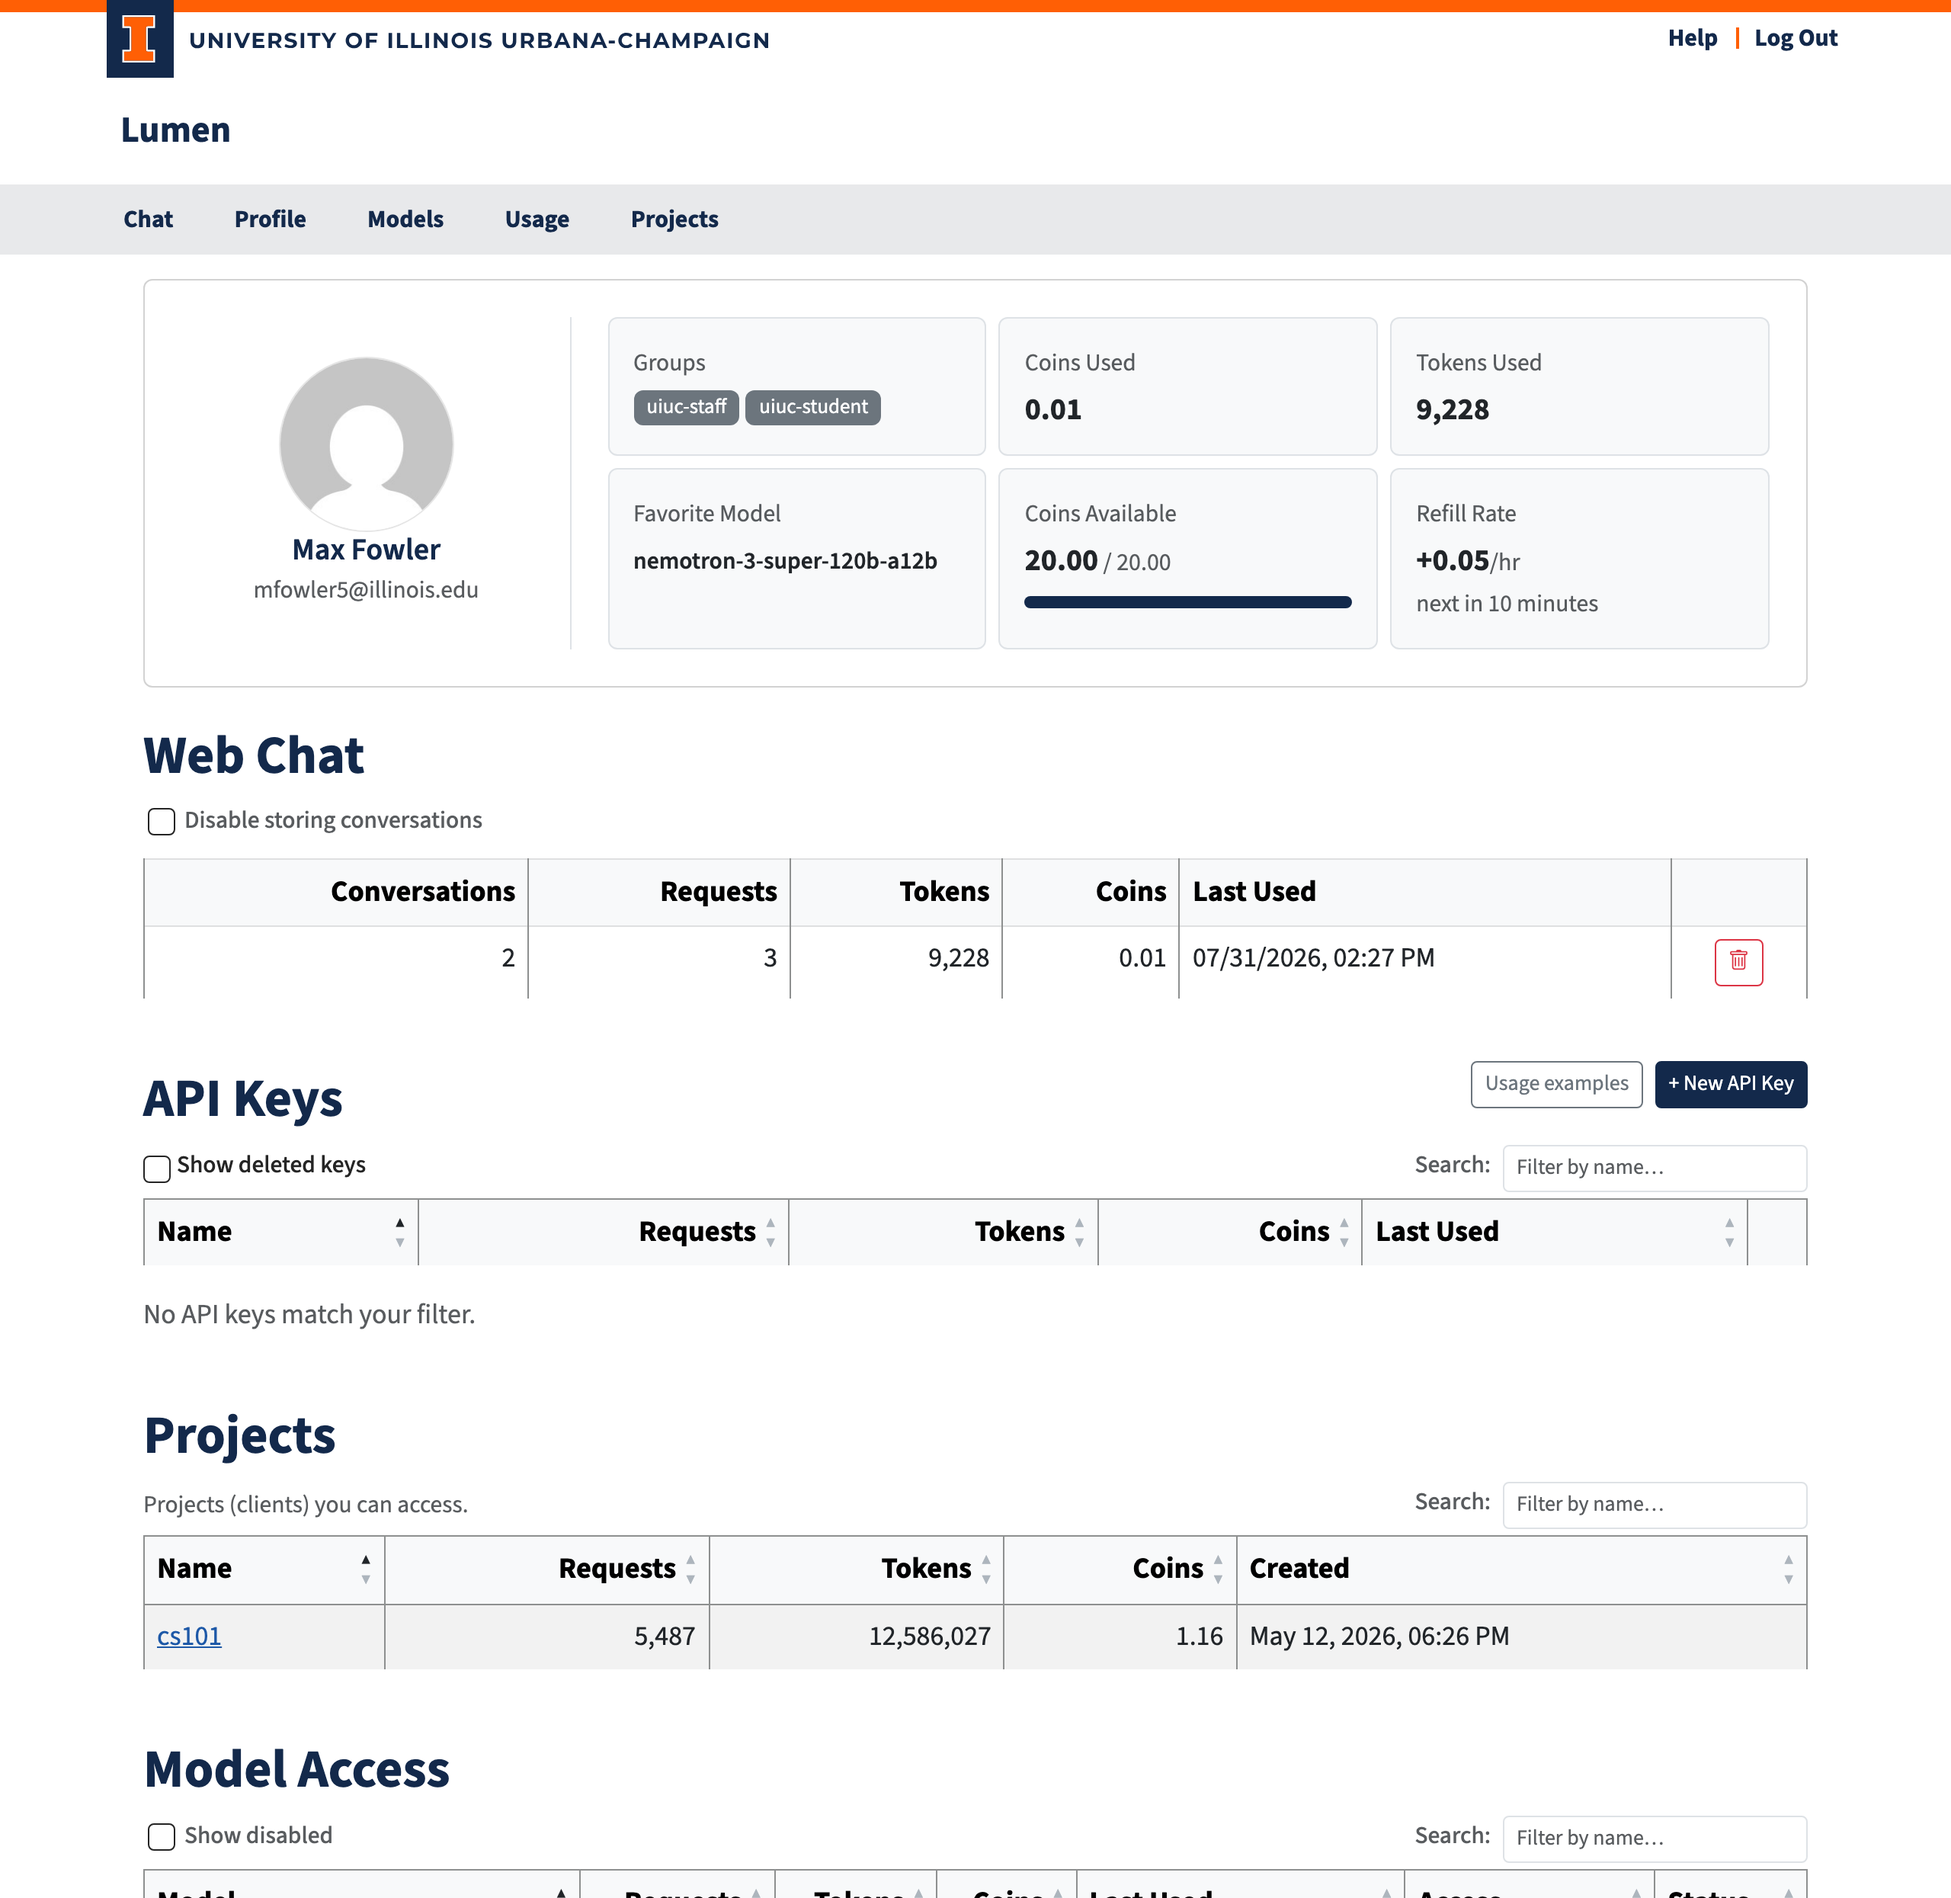
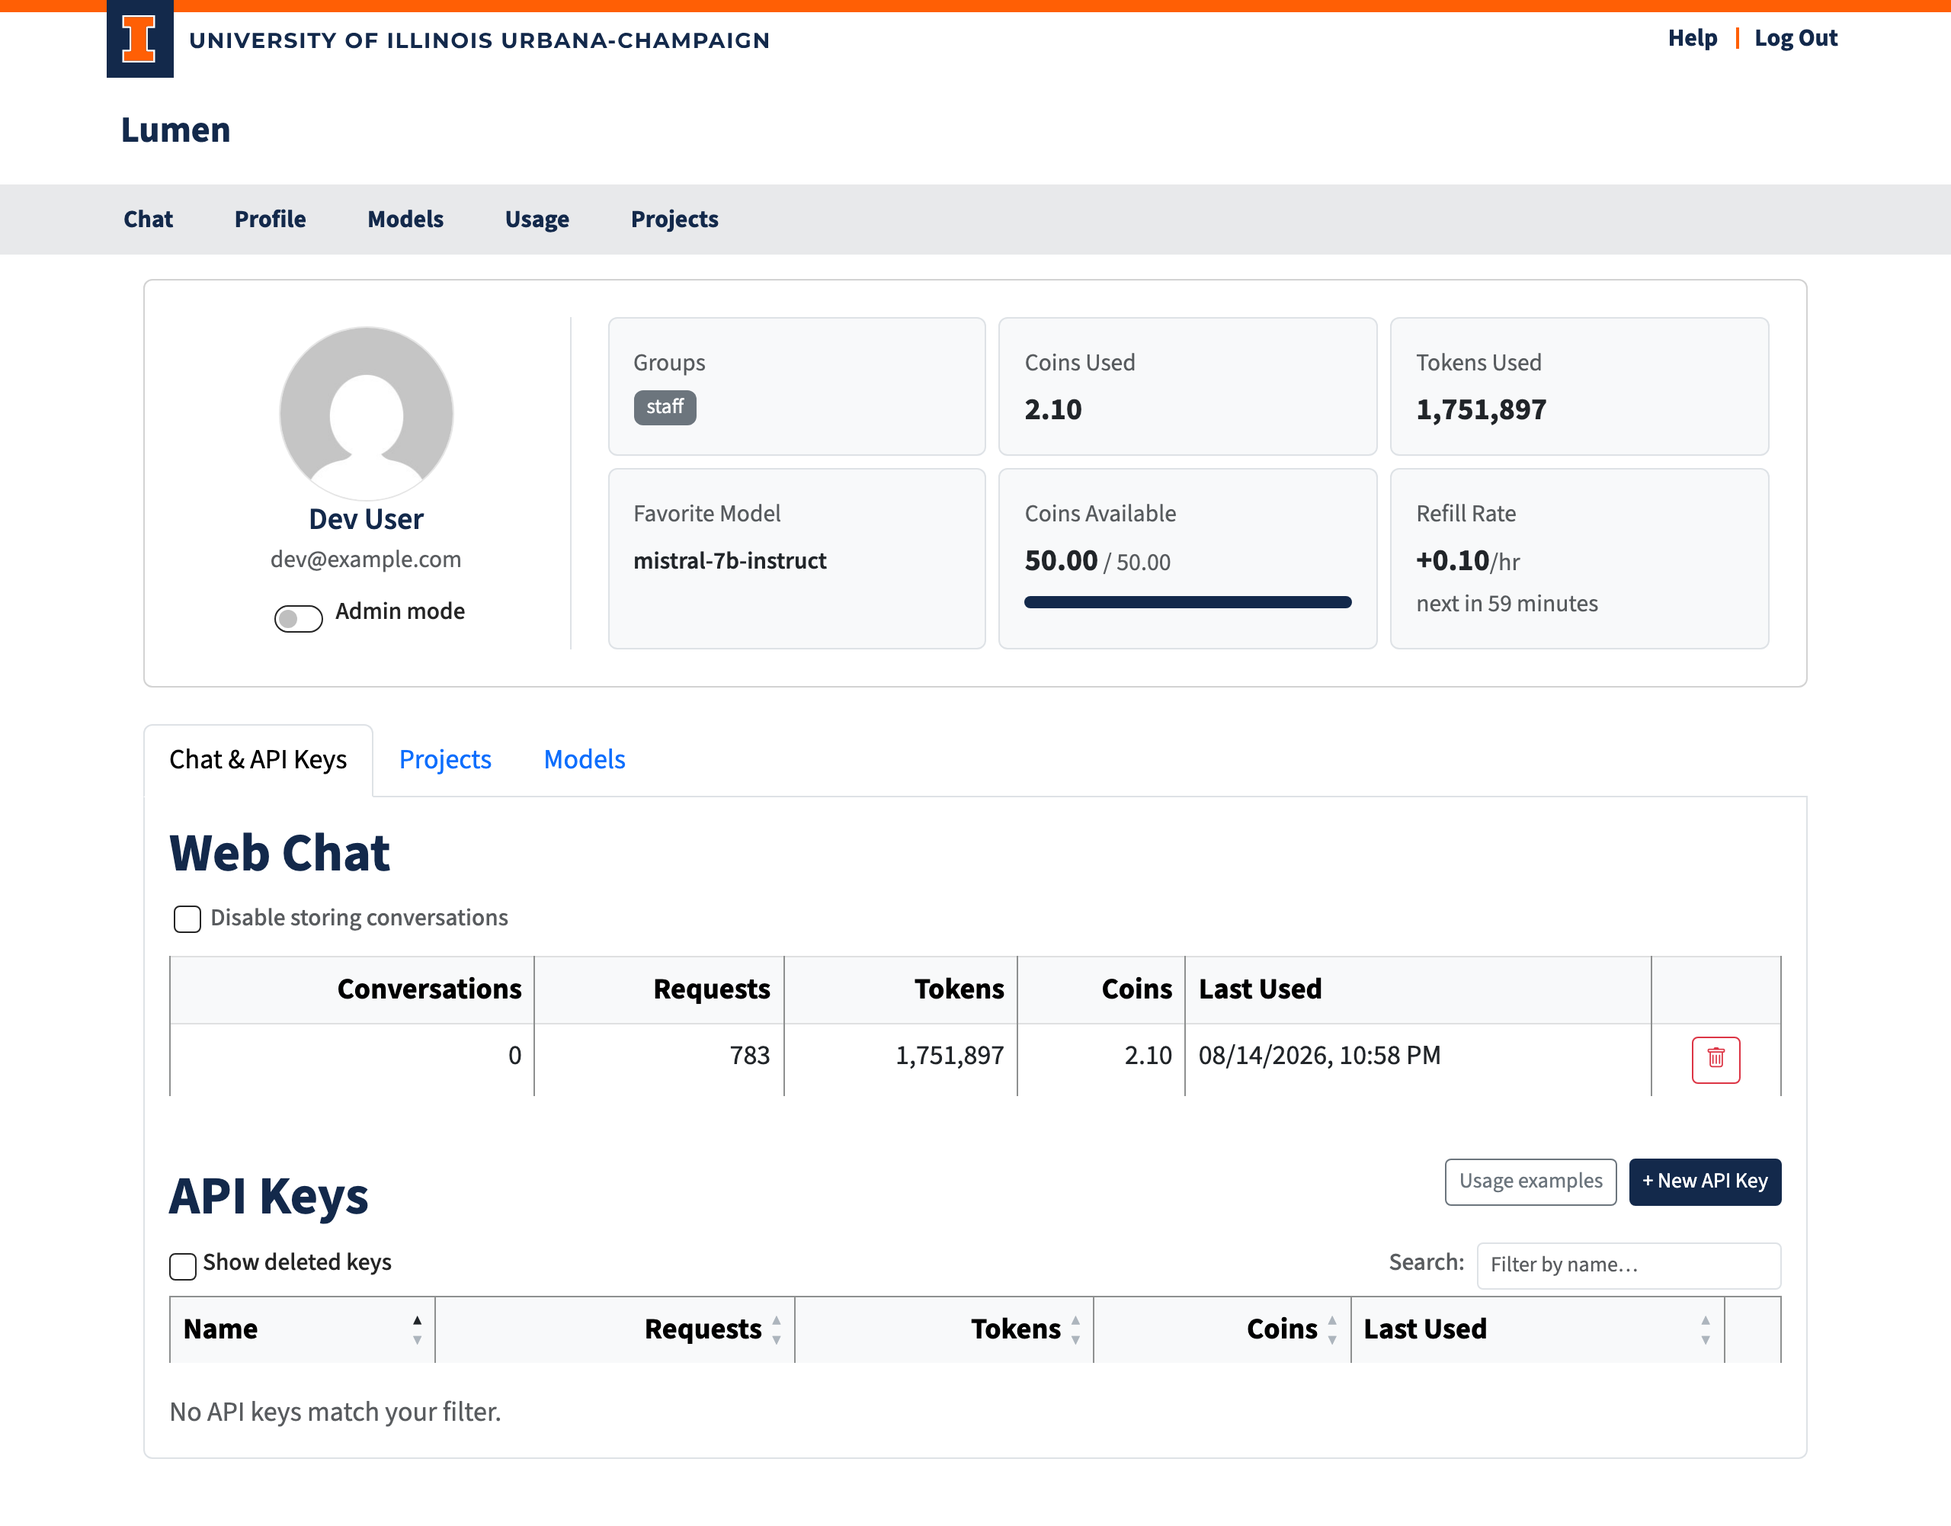
Organize profile page into tabs
The sections below the profile card are now grouped into Bootstrap
tabs: Chat & API Keys, Projects (only when the user can access
projects), and Models. The selected tab syncs with the URL hash
(/profile#models) so tabs are deep-linkable. The admin read-only
profile view uses the same layout.

diff --git a/lumen/templates/profile.html b/lumen/templates/profile.html
@@ -107,8 +107,28 @@
 {% endif %}
 
 
+<!-- Tabs -->
+<ul class="nav nav-tabs mt-4" id="profile-tabs" role="tablist">
+  <li class="nav-item" role="presentation">
+    <button class="nav-link active" id="tab-chat" data-bs-toggle="tab" data-bs-target="#pane-chat"
+            type="button" role="tab" aria-controls="pane-chat" aria-selected="true">Chat &amp; API Keys</button>
+  </li>
+  {% if project_list %}
+  <li class="nav-item" role="presentation">
+    <button class="nav-link" id="tab-projects" data-bs-toggle="tab" data-bs-target="#pane-projects"
+            type="button" role="tab" aria-controls="pane-projects" aria-selected="false">Projects</button>
+  </li>
+  {% endif %}
+  <li class="nav-item" role="presentation">
+    <button class="nav-link" id="tab-models" data-bs-toggle="tab" data-bs-target="#pane-models"
+            type="button" role="tab" aria-controls="pane-models" aria-selected="false">Models</button>
+  </li>
+</ul>
+<div class="tab-content border border-top-0 rounded-bottom p-3 mb-4">
+
+<div class="tab-pane fade show active" id="pane-chat" role="tabpanel" aria-labelledby="tab-chat">
 <!-- Web Chat -->
-<h2 class="mt-3 mb-0">Web Chat</h2>
+<h2 class="mt-0 mb-0">Web Chat</h2>
 {% if not viewing_user %}
 <div class="d-flex justify-content-between align-items-center mt-2 mb-1">
   <div class="form-check mb-0">
@@ -197,11 +217,13 @@
   </table>
 </div>
 <p id="key-empty" class="text-muted" hidden>No API keys match your filter.</p>
+</div>
 
 
 {% if project_list %}
+<div class="tab-pane fade" id="pane-projects" role="tabpanel" aria-labelledby="tab-projects">
 <!-- Projects (clients this user can access) -->
-<div class="d-flex justify-content-between align-items-center mt-4 mb-0">
+<div class="d-flex justify-content-between align-items-center mt-0 mb-0">
   <h2 class="mb-0">Projects</h2>
 </div>
 <div class="d-flex justify-content-between align-items-center mt-2 mb-1">
@@ -230,11 +252,13 @@
   </table>
 </div>
 <p id="project-empty" class="text-muted" hidden>No projects match your filter.</p>
+</div>
 {% endif %}
 
 
+<div class="tab-pane fade" id="pane-models" role="tabpanel" aria-labelledby="tab-models">
 <!-- Model Access -->
-<div class="d-flex justify-content-between align-items-center mt-4 mb-0">
+<div class="d-flex justify-content-between align-items-center mt-0 mb-0">
   <h2 class="mb-0">Model Access</h2>
 </div>
 <div class="d-flex justify-content-between align-items-center mt-2 mb-1">
@@ -268,6 +292,9 @@
   </table>
 </div>
 <p id="model-empty" class="text-muted" hidden>No models match your filter.</p>
+</div>
+
+</div>
 
 
 {% if not viewing_user %}
@@ -361,6 +388,13 @@ document.querySelectorAll(".local-time[data-utc]").forEach(el => {
 });
 
 let openGraylistModal = () => {};
+
+// ── Tab ↔ URL hash sync (#chat / #projects / #models) ────────────────────
+const hashTabBtn = location.hash && document.getElementById('tab-' + location.hash.slice(1));
+if (hashTabBtn && hashTabBtn.closest('#profile-tabs')) bootstrap.Tab.getOrCreateInstance(hashTabBtn).show();
+document.querySelectorAll('#profile-tabs [data-bs-toggle="tab"]').forEach(btn => {
+  btn.addEventListener('shown.bs.tab', () => history.replaceState(null, '', '#' + btn.id.slice(4)));
+});
 
 // ── Admin mode toggle (only rendered for eligible admins on their own profile)
 const adminModeToggle = document.getElementById("admin-mode-toggle");

diff --git a/tests/routes/test_profile_routes.py b/tests/routes/test_profile_routes.py
@@ -445,6 +445,44 @@ def test_profile_projects_zero_usage_renders_zero_not_dash(app, auth_client, tes
 
 
 # ---------------------------------------------------------------------------
+# profile tabs
+# ---------------------------------------------------------------------------
+
+
+def test_profile_page_renders_tabs(auth_client):
+    """Profile sections are grouped into tabs; Projects tab absent without projects."""
+    resp = auth_client.get("/profile")
+    assert resp.status_code == HTTPStatus.OK
+    body = resp.get_data(as_text=True)
+    assert 'id="profile-tabs"' in body
+    assert 'id="tab-chat"' in body
+    assert 'id="tab-models"' in body
+    assert 'id="tab-projects"' not in body
+    assert 'id="pane-chat"' in body
+    assert 'id="pane-models"' in body
+
+
+def test_profile_page_projects_tab_with_project(app, auth_client, test_user):
+    """A managed project adds the Projects tab and its pane."""
+    _make_managed_project(app, test_user["id"], name="tabbed-client")
+    resp = auth_client.get("/profile")
+    assert resp.status_code == HTTPStatus.OK
+    body = resp.get_data(as_text=True)
+    assert 'id="tab-projects"' in body
+    assert 'id="pane-projects"' in body
+
+
+def test_admin_user_profile_renders_tabs(admin_client, test_user):
+    """Admin read-only profile view uses the same tab layout."""
+    resp = admin_client.get(f"/admin/users/{test_user['id']}/profile")
+    assert resp.status_code == HTTPStatus.OK
+    body = resp.get_data(as_text=True)
+    assert 'id="profile-tabs"' in body
+    assert 'id="tab-chat"' in body
+    assert 'id="tab-models"' in body
+
+
+# ---------------------------------------------------------------------------
 # set_admin_mode / admin mode gating
 # ---------------------------------------------------------------------------
 

diff --git a/docs/guides/profile.md b/docs/guides/profile.md
@@ -1,6 +1,6 @@
 # Profile & API Keys
 
-The **Profile** page (`/profile`) shows your coin balance, spending history, model access, and your personal API keys.
+The **Profile** page (`/profile`) shows your coin balance, spending history, model access, and your personal API keys. Below the profile card, the page is organized into tabs: **Chat & API Keys** (web chat settings and your API keys), **Projects** (only shown if you can access any projects), and **Models** (your model access). The selected tab is reflected in the URL (`/profile#chat`, `/profile#projects`, `/profile#models`), so you can bookmark or share a link to a specific tab.
 
 ![Profile page](../img/profile.png)
 
@@ -36,7 +36,7 @@ The right side shows six stat tiles:
 
 ## Web Chat Usage
 
-Below the stat cards, a row summarizes your web chat activity:
+In the **Chat & API Keys** tab, a row summarizes your web chat activity:
 
 | Column | Description |
 |--------|------------|
@@ -64,7 +64,7 @@ Turn the switch off at any time to resume storing new conversations. Previously 
 
 ## API Keys
 
-API keys let you access Lumen's AI models from your own code, scripts, or compatible tools — without opening a browser.
+API keys let you access Lumen's AI models from your own code, scripts, or compatible tools — without opening a browser. They are listed in the **Chat & API Keys** tab.
 
 ### What an API Key Is
 
@@ -98,9 +98,13 @@ The API Keys table shows all your active keys and lets you sort by name, request
 
 Click **Delete** on any active key. The key is deactivated immediately — any code using it will start receiving authentication errors. Usage history is preserved and visible with "Show deleted keys".
 
+## Projects
+
+If you can access any projects, a **Projects** tab lists them with their usage (requests, tokens, coins) and creation date. Each name links to the project's detail page — see the [Projects](../projects/projects.md) documentation.
+
 ## Model Access
 
-The Model Access table lists every model available in Lumen and your access status for each.
+The **Models** tab lists every model available in Lumen and your access status for each.
 
 | Column | Description |
 |--------|------------|

diff --git a/CHANGELOG.md b/CHANGELOG.md
@@ -4,6 +4,10 @@ All notable changes to Lumen will be documented in this file.
 
 ## [Unreleased]
 
+### Changed
+
+- The profile page is now organized into tabs below the profile card: **Chat & API Keys**, **Projects** (shown only when the user can access projects), and **Models**. The selected tab is reflected in the URL hash (`/profile#models`) so tabs are deep-linkable.
+
 ### Added
 
 - Admin mode: administrators now act as normal users by default and enable admin permissions with a switch under their email address on the profile page. The mode is per-session and resets on logout.
